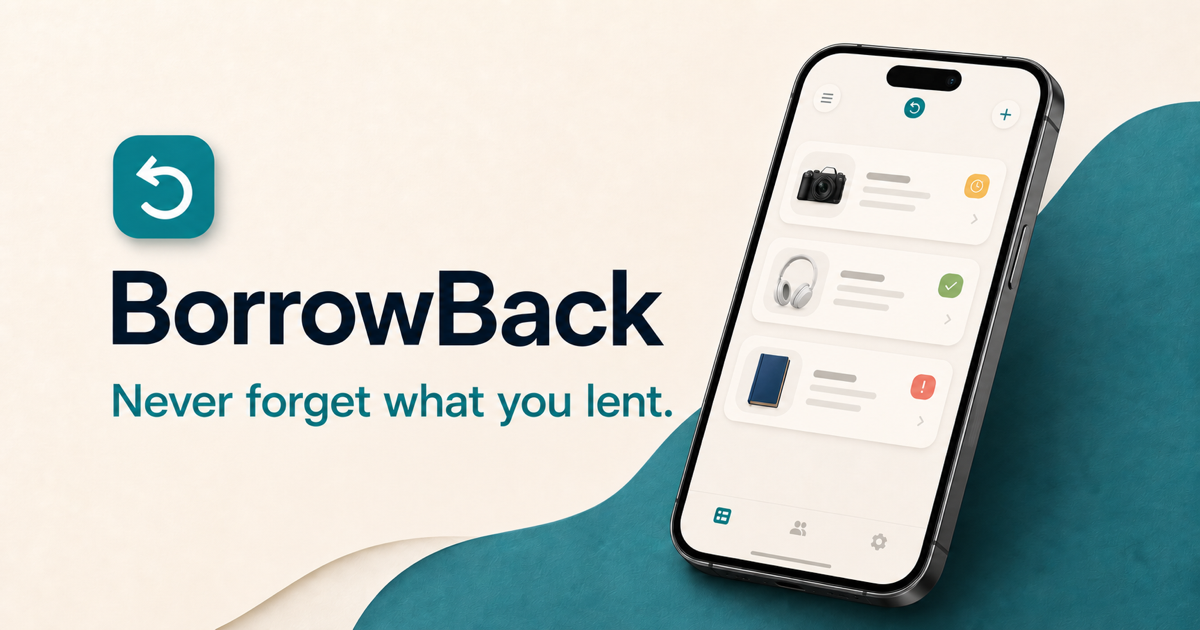
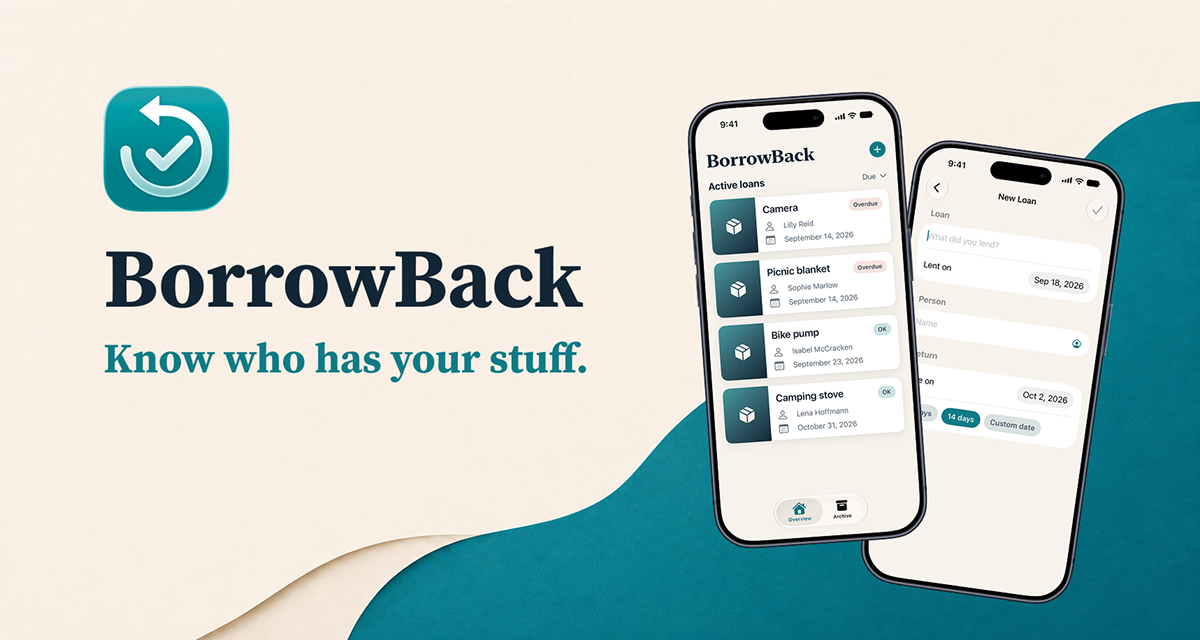
Update OG image asset and metadata dimensions (#67)
Replaced `website/public/og.png` and aligned the Open Graph metadata in `website/app/layout.tsx` by updating the declared image height from 630 to 640. Also removed the now-unnecessary `website/public/.gitkeep` placeholder file.

diff --git a/website/app/layout.tsx b/website/app/layout.tsx
@@ -38,7 +38,7 @@ export async function generateMetadata(): Promise<Metadata> {
     metadataBase: new URL(origin),
     title,
     description,
-    openGraph: { title, description, type: "website", images: [{ url: `${origin}/og.png`, width: 1200, height: 630, alt: "BorrowBack app – Keep track of everything you lend" }] },
+    openGraph: { title, description, type: "website", images: [{ url: `${origin}/og.png`, width: 1200, height: 640, alt: "BorrowBack app – Keep track of everything you lend" }] },
     twitter: { card: "summary_large_image", title, description, images: [`${origin}/og.png`] },
   };
 }
